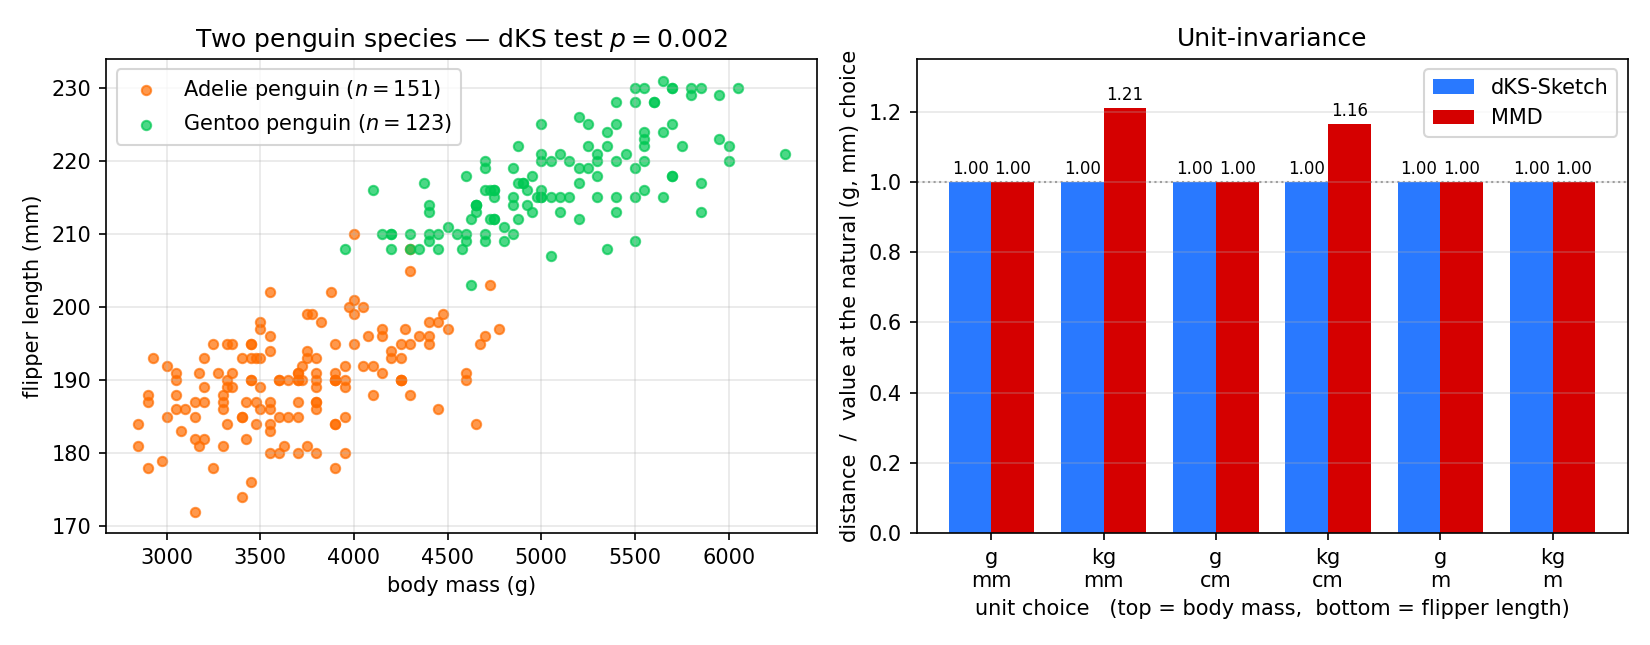
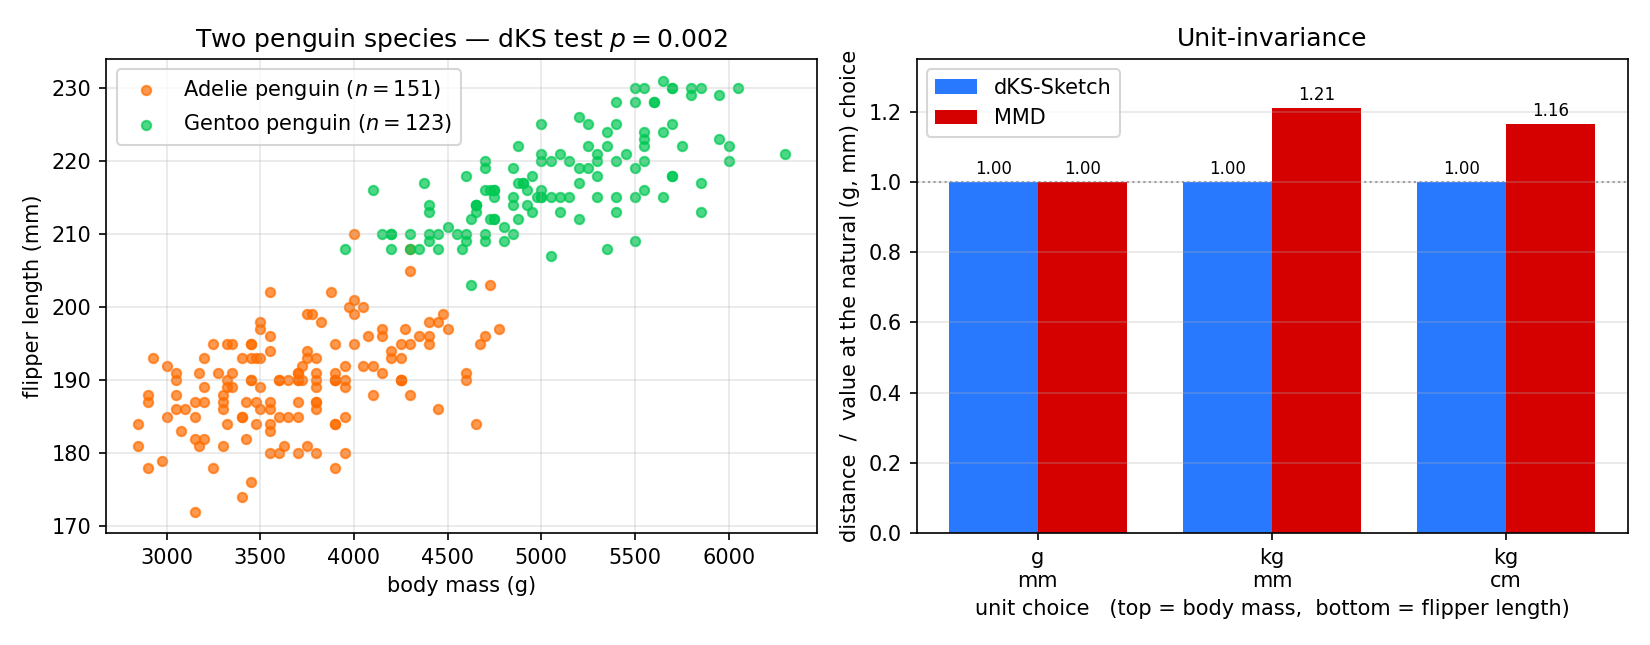
Website: trim penguins unit-invariance chart to g/mm, kg/mm, kg/cm (+ matching caption)

Changed region(s): [[0.5564, 0.093, 0.9891, 0.9302], [0.7109, 0.8682, 0.8345, 0.8992]]

diff --git a/docs/index.html b/docs/index.html
@@ -249,10 +249,10 @@
     <p>Because dKS reads only the <em>order</em> of points along each axis, its answer doesn't change when an axis's units change. Here it is on two real datasets, beside a Gaussian-kernel MMD — which blends the axes through a Euclidean metric, so its answer depends on the units you happen to choose.</p>
 
     <p class="lead-label">Palmer penguins — body mass vs flipper length</p>
-    <p>A dKS two-sample test cleanly separates Adelie from Gentoo penguins (<i>p</i> = 0.002). Re-express body mass in grams or kilograms, and flipper length in mm, cm or m, and dKS-Sketch returns the identical value for every choice; the Gaussian MMD shifts by up to 21%.</p>
+    <p>A dKS two-sample test cleanly separates Adelie from Gentoo penguins (<i>p</i> = 0.002). Switch body mass from grams to kilograms (with flipper length in mm or cm), and dKS-Sketch returns the identical value, while the Gaussian MMD shifts by up to 21%.</p>
     <figure class="fig">
-      <img src="assets/fig_penguins.png" alt="Left: Adelie and Gentoo penguins by body mass and flipper length, clearly separated. Right: a bar chart with dKS-Sketch identical across six unit choices while MMD changes by up to 21%.">
-      <figcaption><b>Penguins.</b> Left: the two species are clearly separated (dKS test <i>p</i> = 0.002). Right: across grams/kilograms &times; mm/cm/m, every dKS-Sketch bar (blue) is identical, while MMD (red) moves with the unit choice.</figcaption>
+      <img src="assets/fig_penguins.png" alt="Left: Adelie and Gentoo penguins by body mass and flipper length, clearly separated. Right: a bar chart with dKS-Sketch identical across three unit choices while MMD changes by up to 21%.">
+      <figcaption><b>Penguins.</b> Left: the two species are clearly separated (dKS test <i>p</i> = 0.002). Right: switching body mass from grams to kilograms leaves every dKS-Sketch bar (blue) at 1.00, while MMD (red) jumps to 1.21 and 1.16.</figcaption>
     </figure>
 
     <p class="lead-label">NHANES — height vs weight, metric vs US units</p>

diff --git a/experiments/run_penguins.py b/experiments/run_penguins.py
@@ -60,10 +60,7 @@ print(f"dKS(Adelie,Gentoo) = {v_obs:.3f}   permutation p = {p:.4g}   reject={rej
 COMBOS = [  # (tick label, flipper scale from mm, body-mass scale from g)
     ("g\nmm",  1.0,   1.0),
     ("kg\nmm", 1.0,   1e-3),
-    ("g\ncm",  1e-1,  1.0),
     ("kg\ncm", 1e-1,  1e-3),
-    ("g\nm",   1e-3,  1.0),
-    ("kg\nm",  1e-3,  1e-3),
 ]
 dks_u, mmd_u = [], []
 for _, fs, ms in COMBOS: